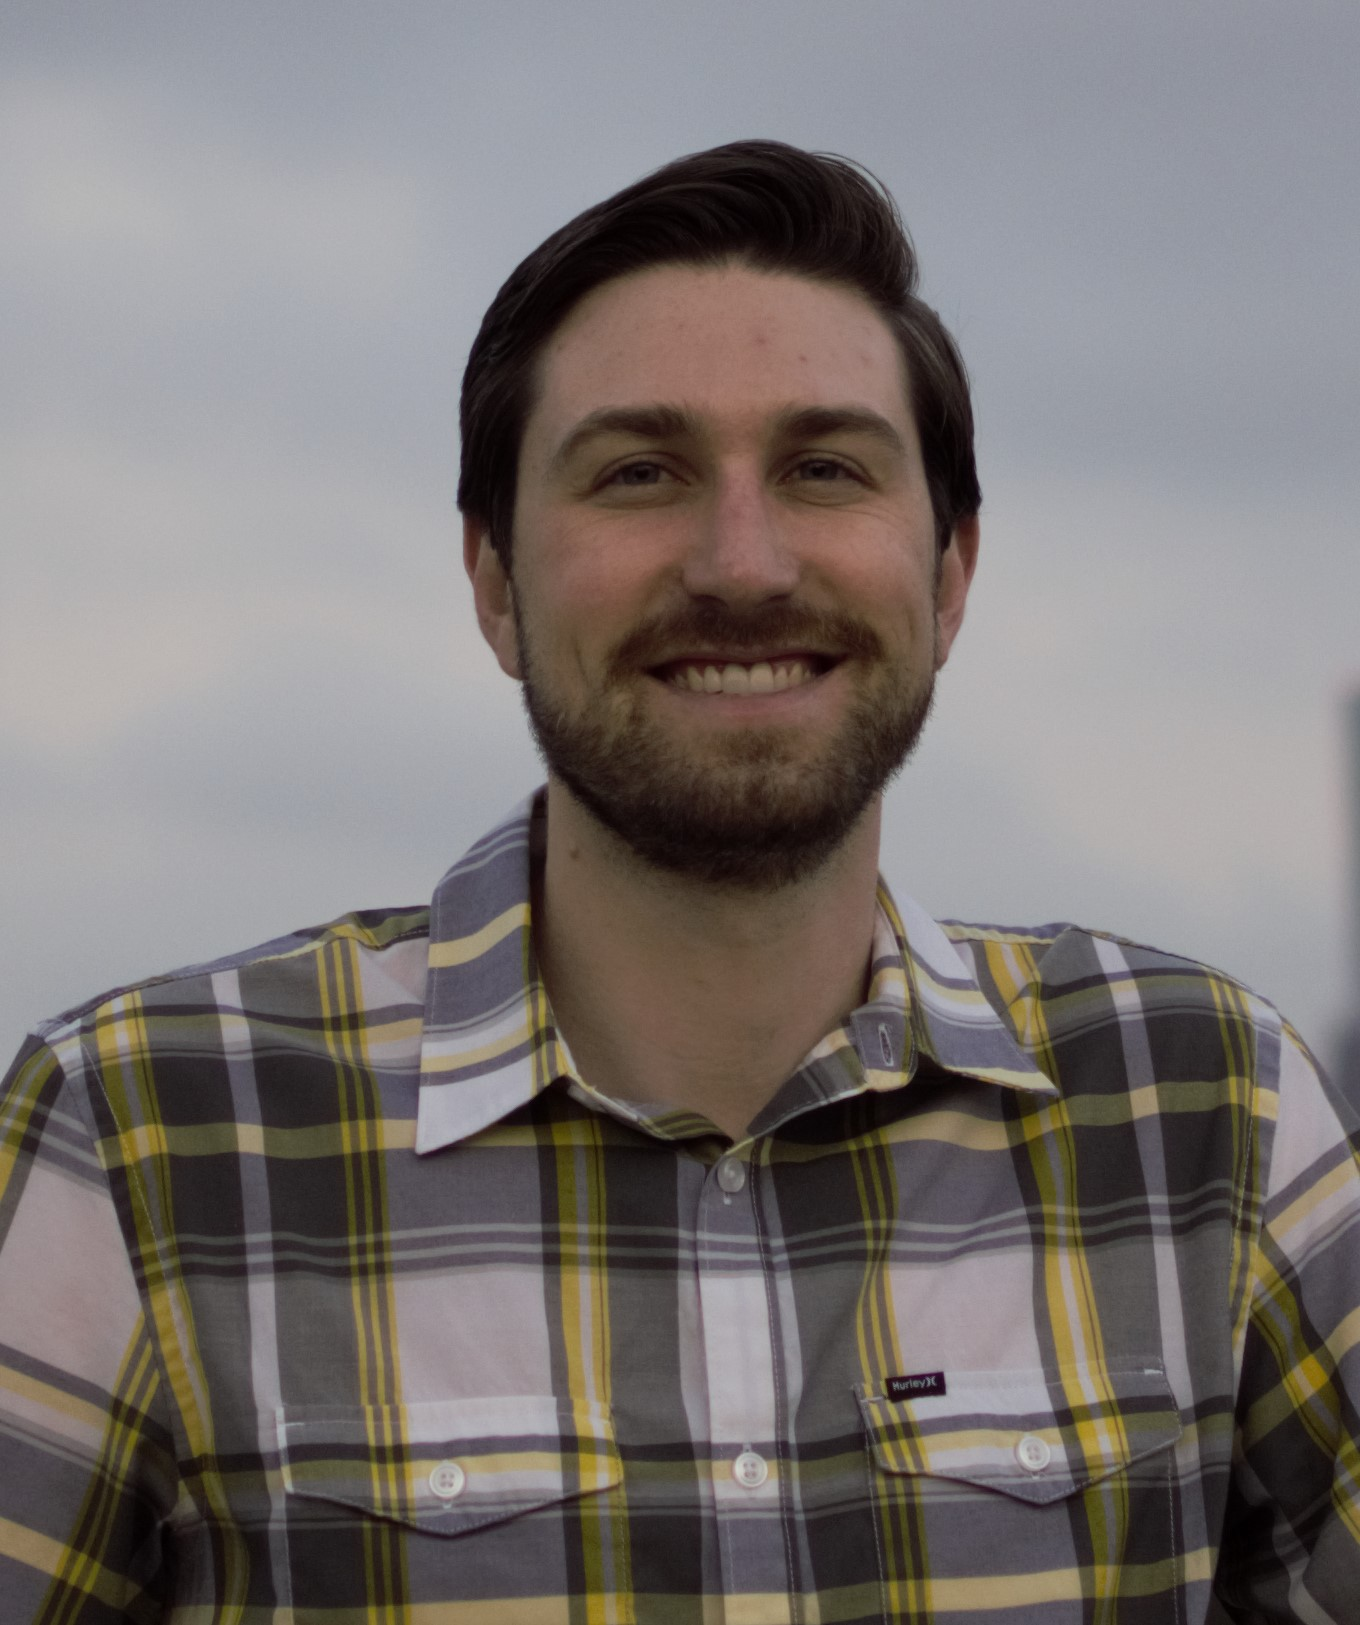
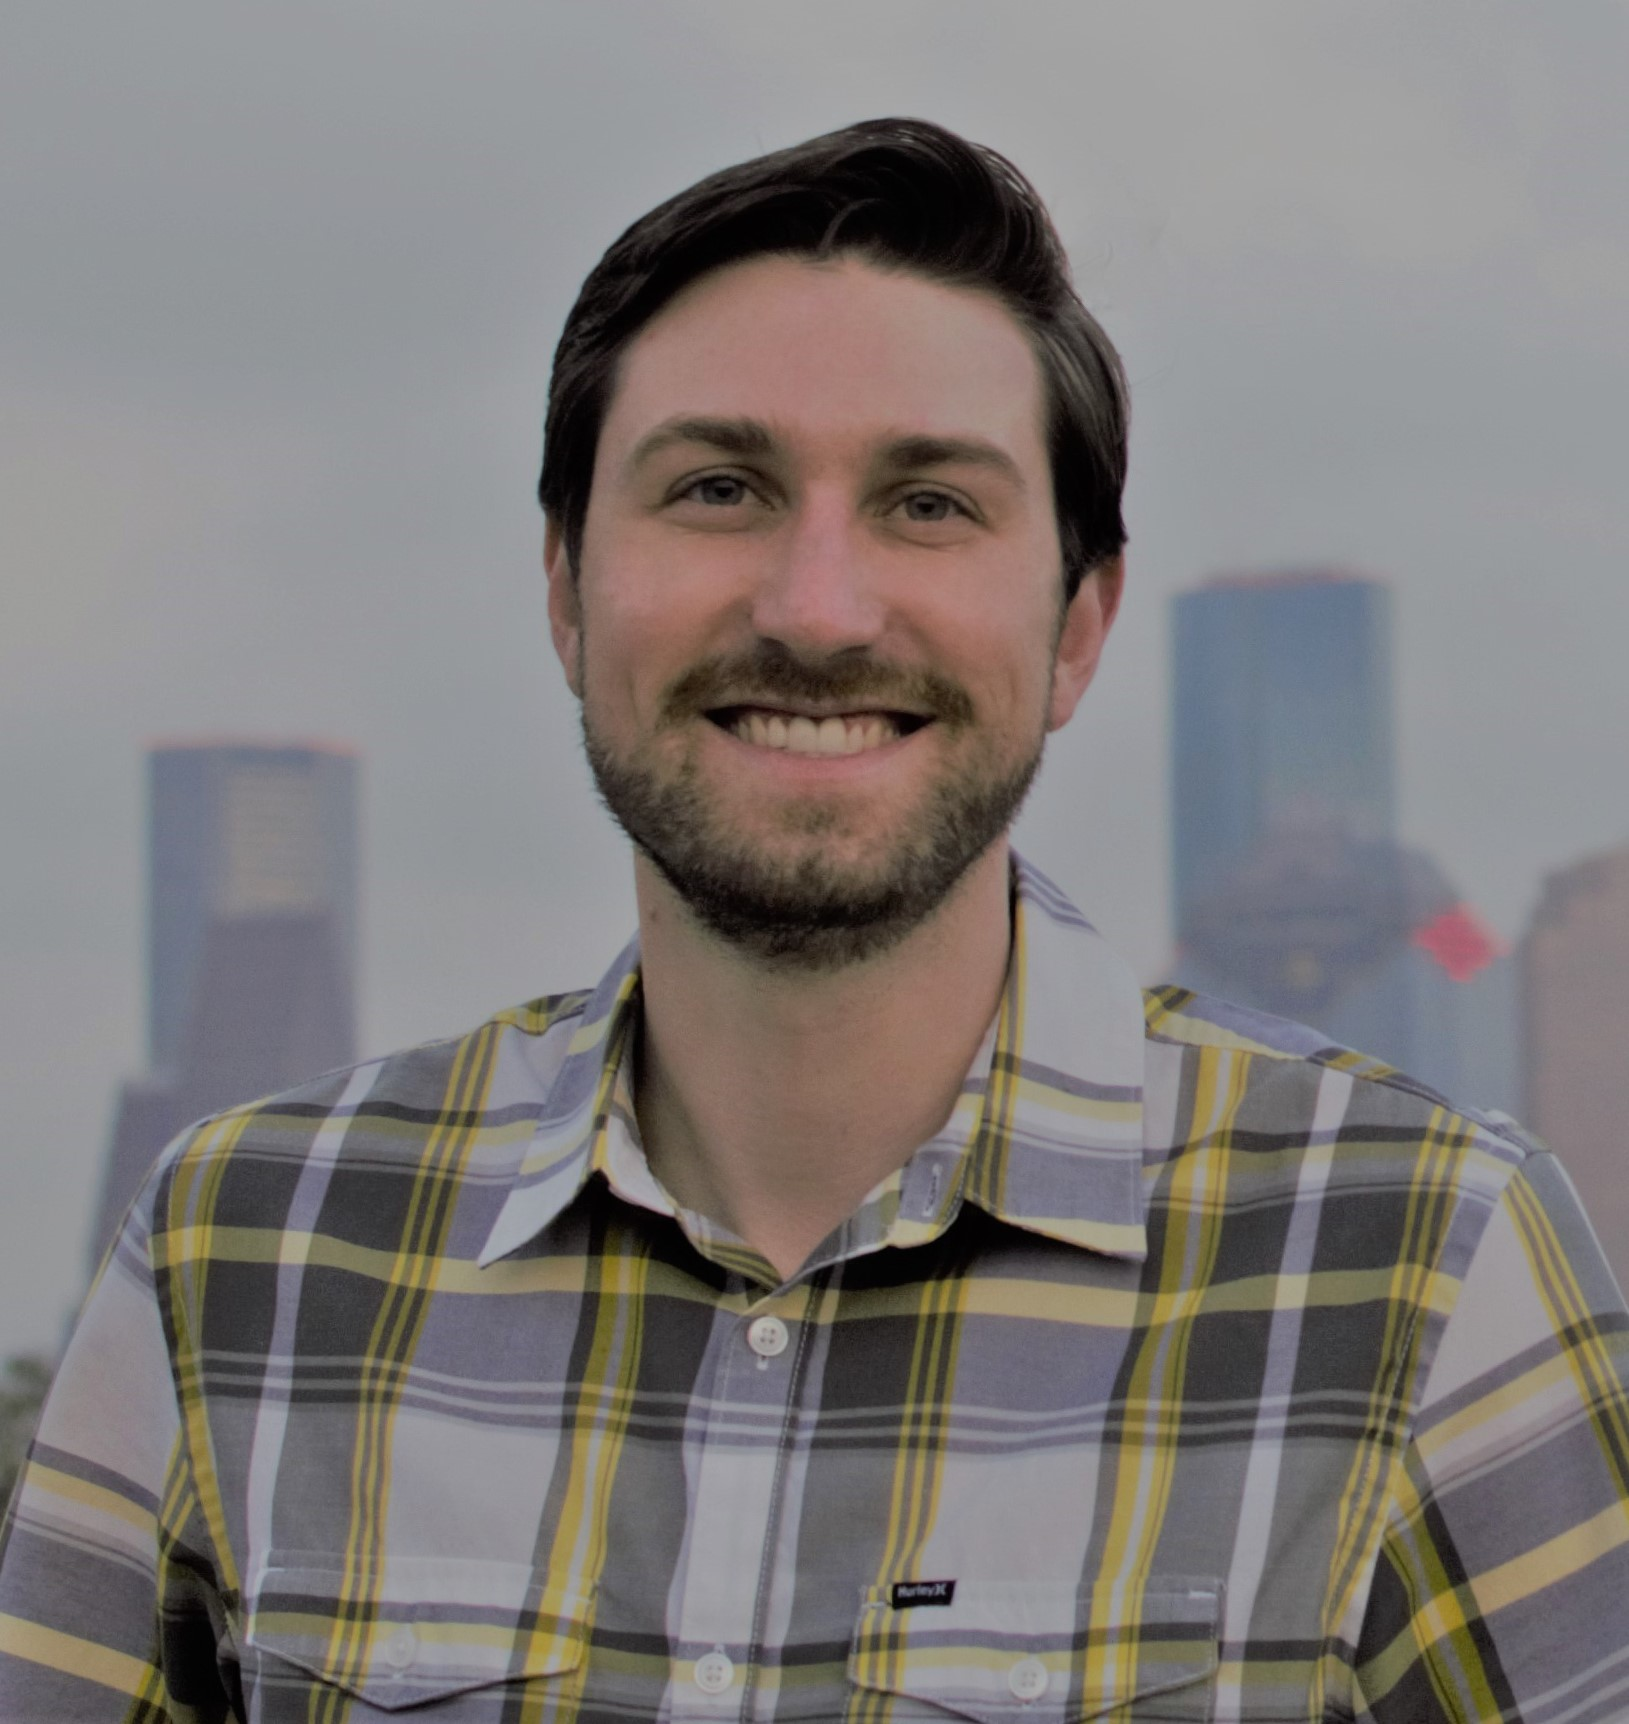
fixing picture link

diff --git a/index.html b/index.html
@@ -57,7 +57,7 @@
     <!--About Me Section-->
     <div class="jumbotron">
         <div class="container">
-            <img class="round" src="./images/_DSC0690.jpg" />
+            <img class="round" src="./images/me.jpg" />
             <h1 id="about"> About Me</h1>
             <p class="description">My name is Chris Grindereng and I’m a software developer. I enjoy building software solutions and would like to help craft a custom solution to bring functionality to your web applications. I’m a graduate of the accelerated learning program at The Iron Yard and have years of experience working in I.T. prior to software development.</p>
             <p class="description">Originally from Denver, I recently Houston with my fiancée. Beyond my interest in tech, I enjoy the outdoors being an avid hiker, rock climber, and skier. I enjoy experimenting in the kitchen at home and experiencing the abundance of ethnic foods in this diverse city. I love to travel and hope to make my way around the world.</p>    
